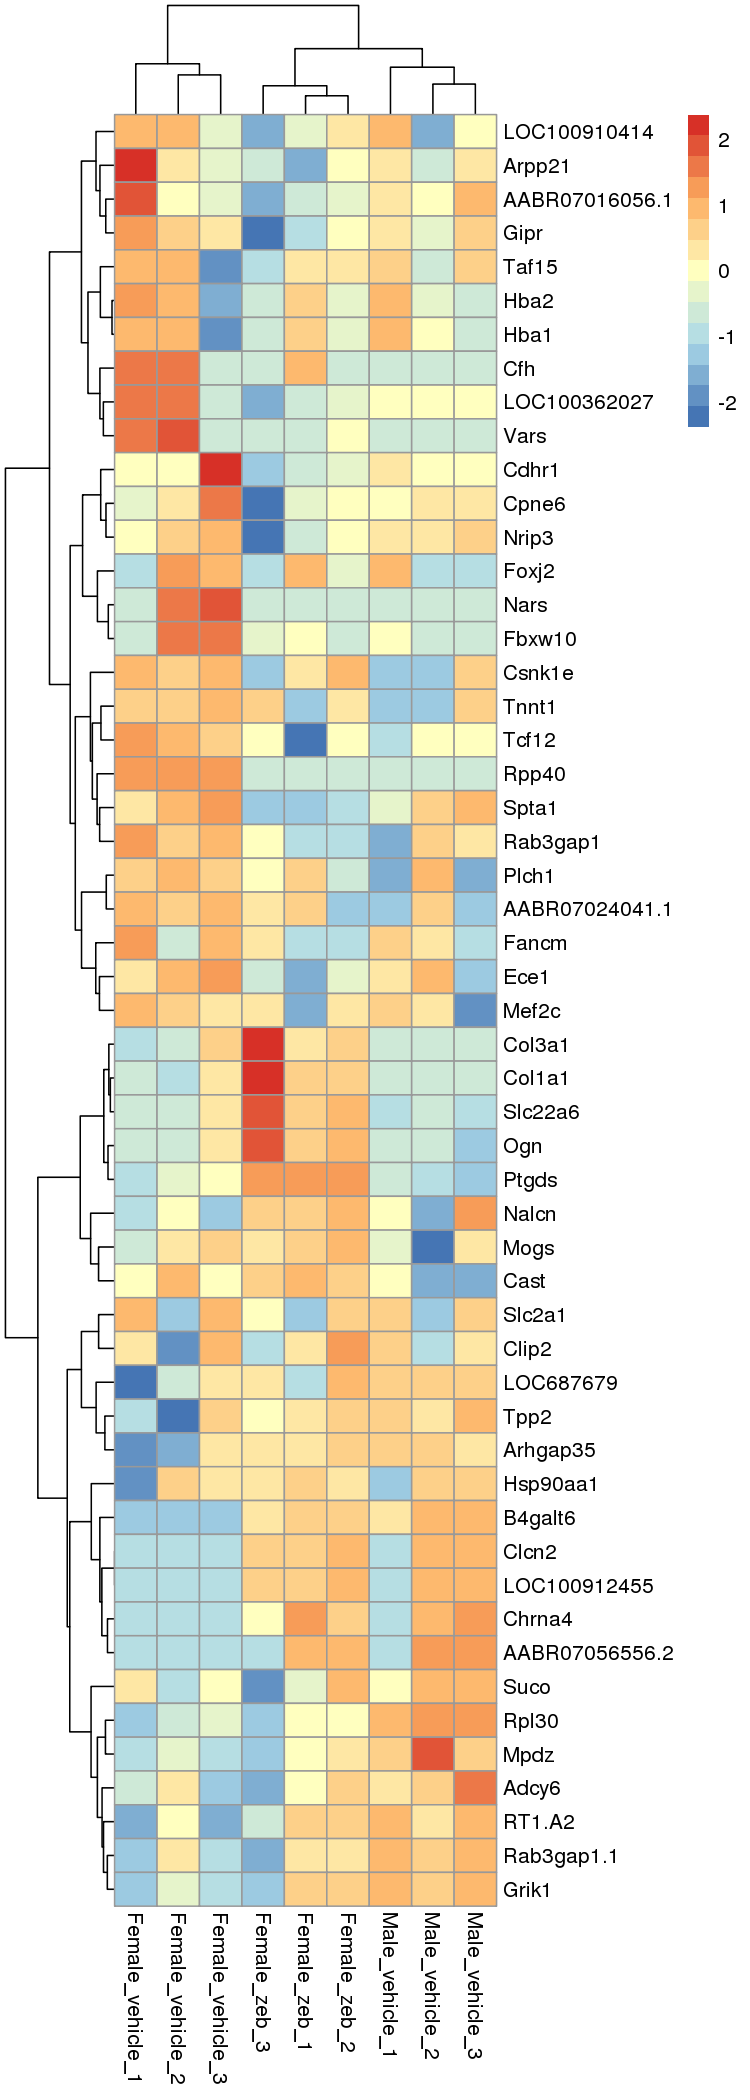
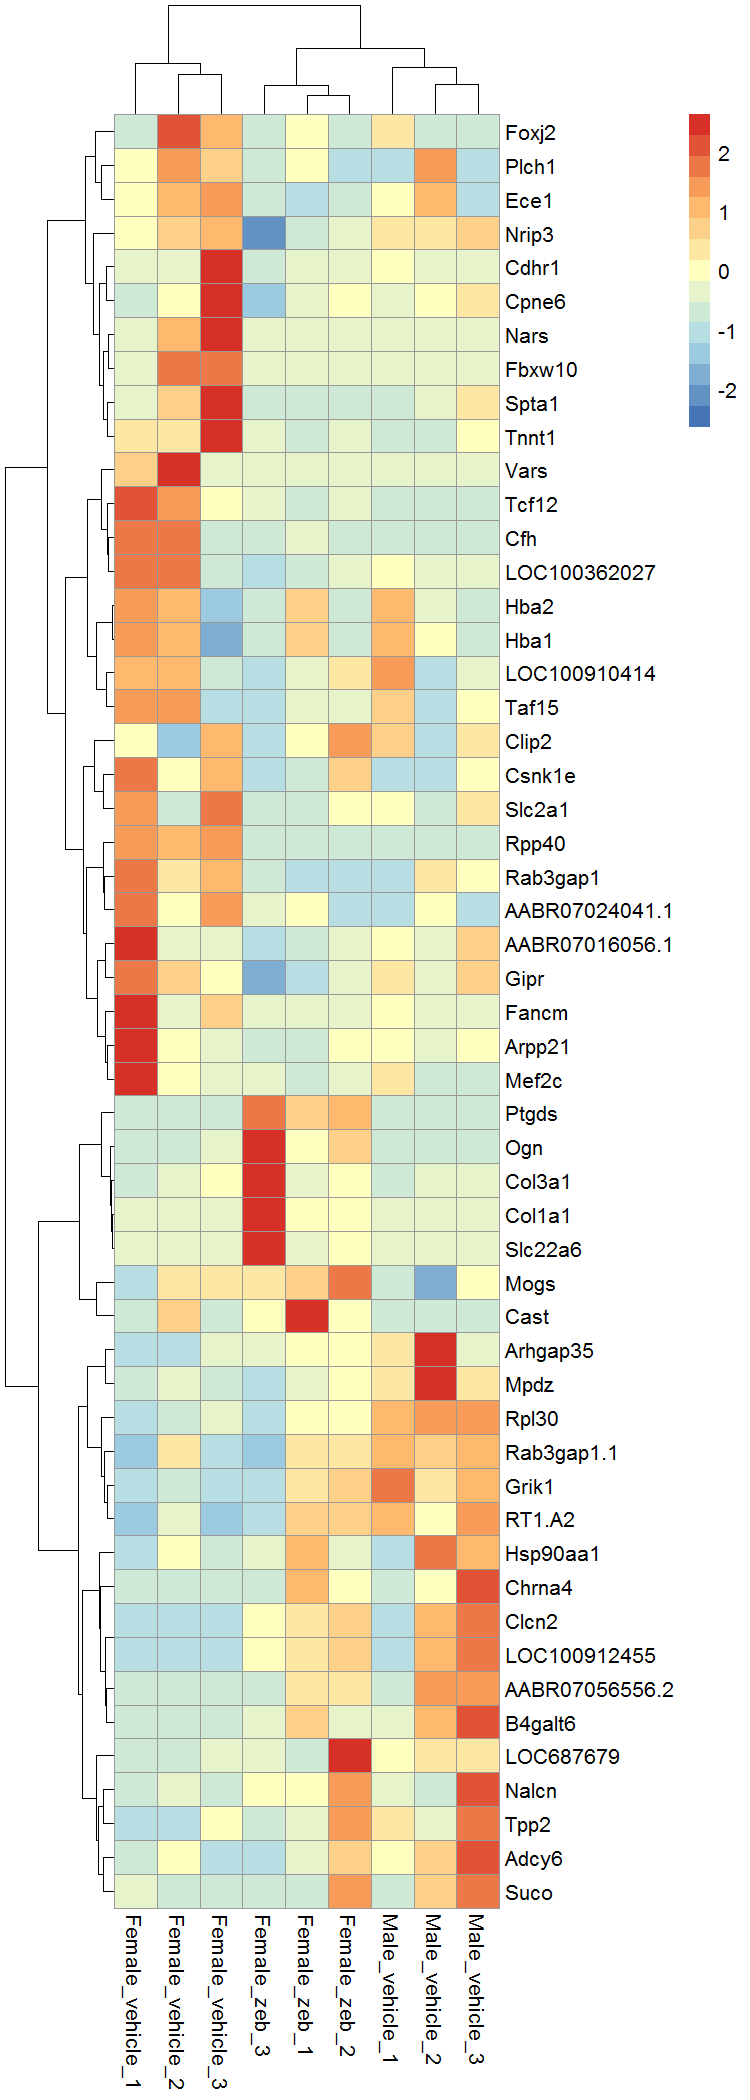
Fixed some figures

diff --git a/Data_Analysis/3.1-DE_genes_femaleVSzeb.md b/Data_Analysis/3.1-DE_genes_femaleVSzeb.md
@@ -95,7 +95,7 @@ edgeR_QL_results %>% head() %>% kable("markdown")
 
 |                     |      logFC|    logCPM|           LR| PValue| FDR|
 |:--------------------|----------:|---------:|------------:|------:|---:|
-|ENSRNOT00000050156.3 | -0.0853225| 13.822966| 2983242.1449|      0|   0|
+|ENSRNOT00000050156.3 | -0.0853225| 13.822966| 2983231.9953|      0|   0|
 |ENSRNOT00000020926.5 |  5.3936244|  6.588883|    1296.0575|      0|   0|
 |ENSRNOT00000073850.3 |  3.7578384|  6.340471|     750.0972|      0|   0|
 |ENSRNOT00000005311.6 |  3.4451378|  6.635701|     680.3125|      0|   0|
@@ -202,7 +202,7 @@ Color scale represents `log10(count+1)`
 
 
 ```r
-pheatmap(log(plot_heatmap+1, 10), show_rownames = T, cluster_cols = hclust(as.dist(1-cor(plot_heatmap, method = "spearman")), method = "ward.D2"), clustering_method = "ward.D2",
+pheatmap(plot_heatmap, show_rownames = T, cluster_cols = hclust(as.dist(1-cor(plot_heatmap, method = "spearman")), method = "ward.D2"), clustering_method = "ward.D2",
          color = colorRampPalette(c("#ffffb2", "#feb24c", "#bd0026"))(15))
 ```
 
@@ -212,7 +212,7 @@ Try z-score normalization within rows.
 
 
 ```r
-pheatmap(log(plot_heatmap+1, 10), show_rownames = T, scale = "row", cluster_cols = hclust(as.dist(1-cor(plot_heatmap, method = "spearman")), method = "ward.D2"), clustering_method = "ward.D2",
+pheatmap(plot_heatmap, show_rownames = T, scale = "row", cluster_cols = hclust(as.dist(1-cor(plot_heatmap, method = "spearman")), method = "ward.D2"), clustering_method = "ward.D2",
          color = colorRampPalette(c("#4575b4", "#abd9e9", "#ffffbf", "#fdae61", "#d73027"))(15))
 ```
 
